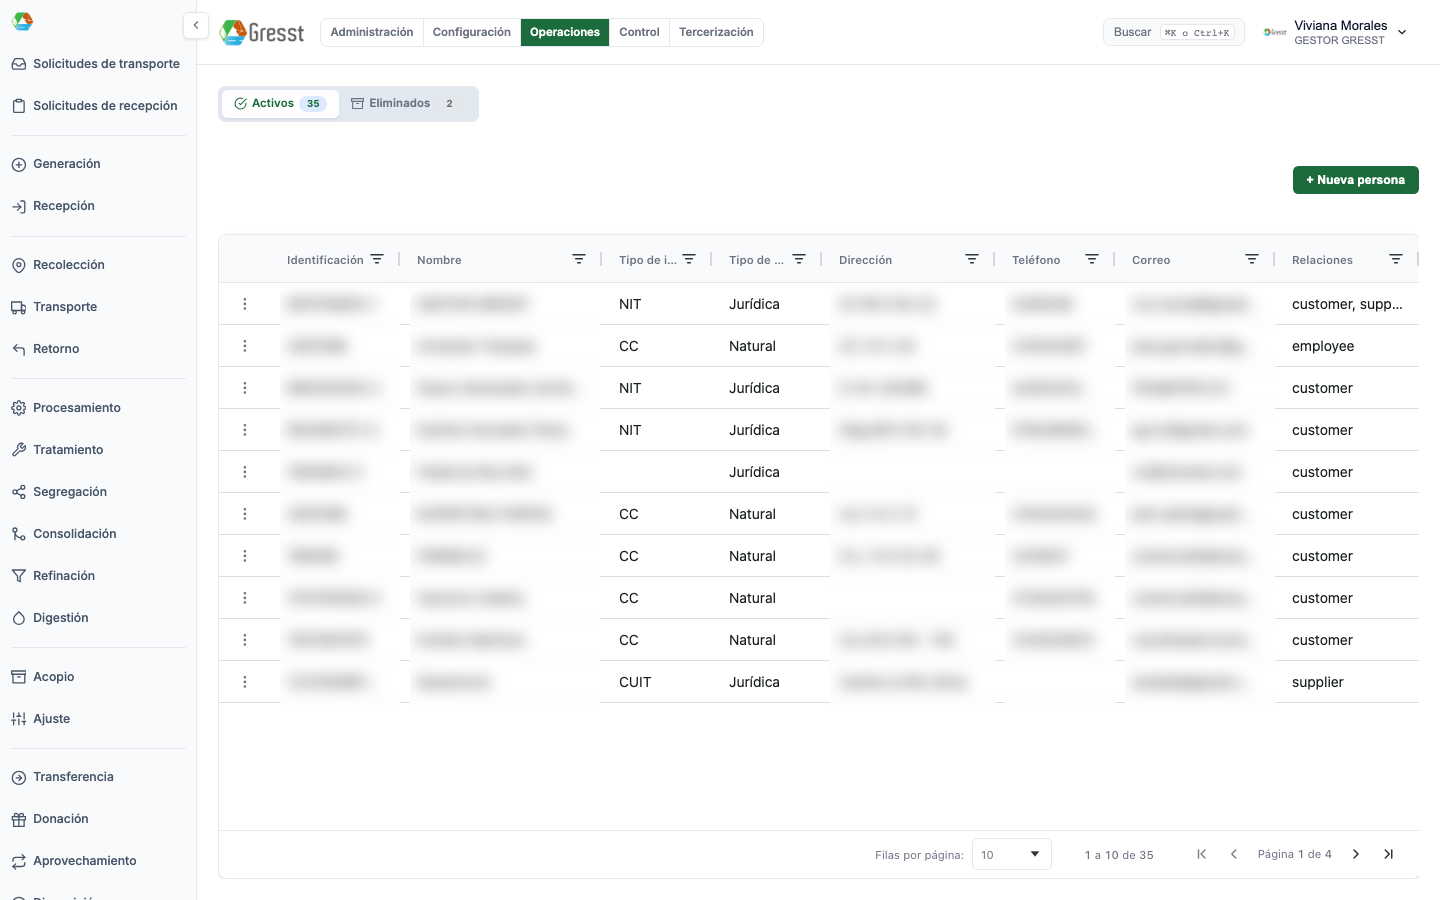
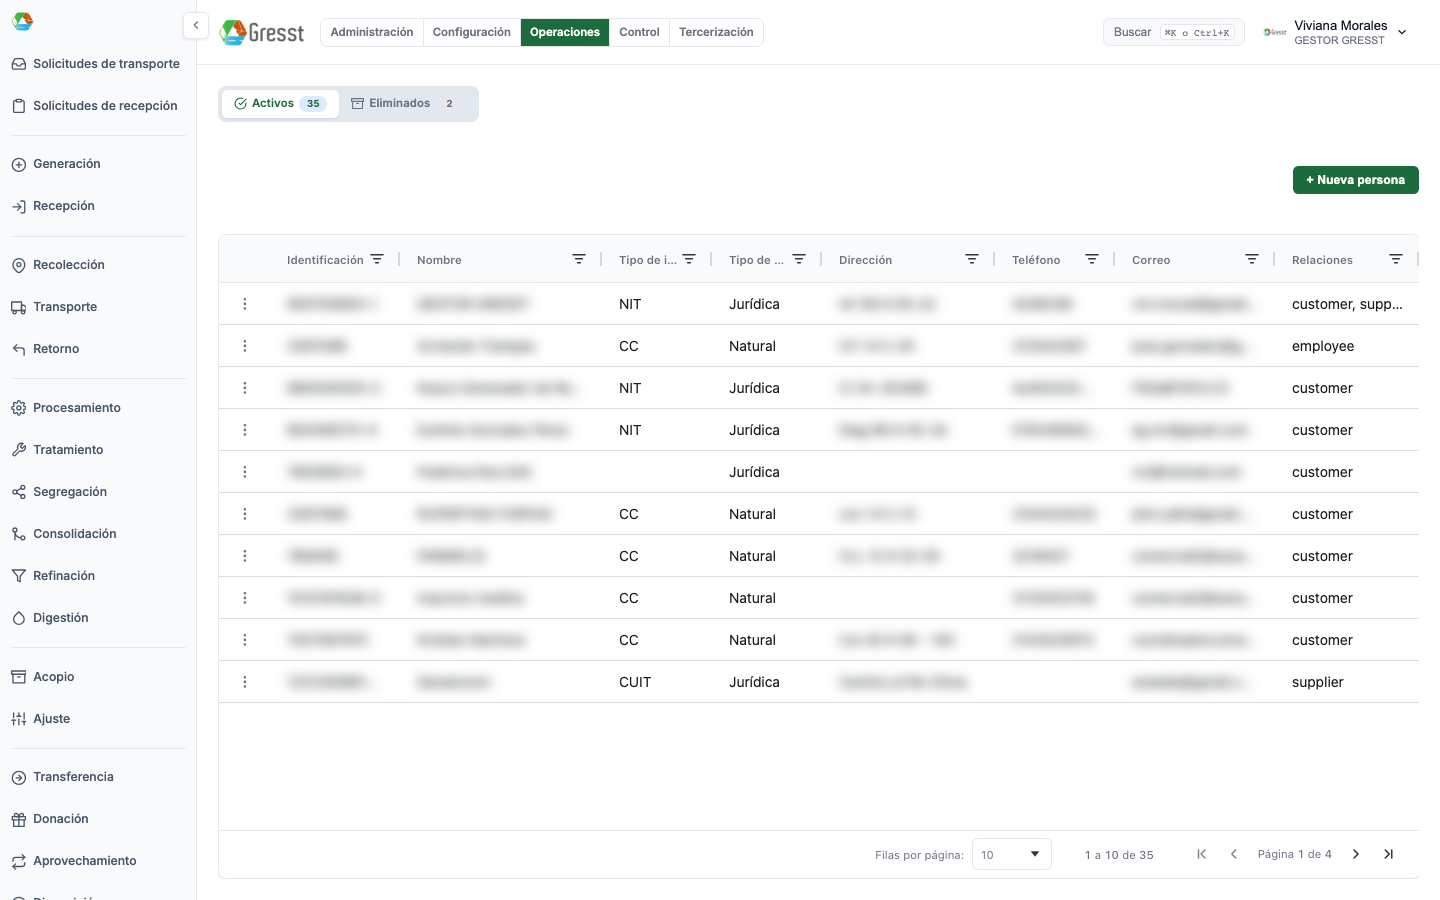
docs(webapp): add screenshots for routes, receptions, requests and roles
Document route expansion and row menu, direct reception panel, new
request form and roles in the WebApp guide, and extend the capture
script with interactive steps.

diff --git a/docs/guia_webapp.md b/docs/guia_webapp.md
@@ -49,9 +49,21 @@ Se trabajan igual en **Transporte** y **Recepción**:
 
 ![Transporte: pestañas Abiertas y Cerradas, filtros y rutas con sus paradas](img/webapp-recoleccion.png)
 
+Al expandir una ruta ves sus paradas, y al expandir cada parada, sus residuos:
+
+![Ruta de transporte expandida con sus paradas y el estado de cada una](img/webapp-transporte-ruta.png)
+
+El menú **⋮** de la ruta ofrece **Editar datos de inicio**, **Agregar residuo** y **Ver mapa**:
+
+![Menú de acciones de una ruta de transporte](img/webapp-transporte-menu-fila.png)
+
 **Recepción (maestro–detalle):** cliente + fecha + punto de recepción; en el detalle, los residuos.
 
 ![Recepción: recepciones abiertas por cliente, fecha y punto de recepción](img/webapp-recepcion.png)
+
+**Agregar residuo** abre el panel de recepción directa: punto de recepción, cliente, transportador, vehículo, fecha, tipo de residuo y cantidades.
+
+![Panel Registrar recepción directa](img/webapp-recepcion-agregar-residuo.png)
 
 Además, si trabajas con cuentas conectadas:
 
@@ -75,6 +87,10 @@ En cada residuo de la lista, el menú **⋮** tiene la acción principal (**Tran
 Cuando registras una solicitud a nombre de un cliente **conectado**, queda esperando su aprobación: ver [Trabajar conectados](guia_conexiones.md#registrar-una-solicitud-a-nombre-de-un-cliente-conectado).
 
 ![Solicitudes de transporte abiertas, con origen, proveedor, intermedio y destino](img/webapp-solicitudes.png)
+
+**+ Nueva solicitud** abre el formulario: quién solicita, quién transporta y quién recibe, la fecha y los ítems de residuo. Puedes **Guardar borrador** o **Confirmar**.
+
+![Formulario de nueva solicitud de transporte](img/webapp-solicitud-nueva.png)
 
 ---
 
@@ -126,6 +142,10 @@ Detalle: [Trabajar conectados](guia_conexiones.md#si-contratas-servicios).
 Solo para el propietario de la cuenta: **Cuenta** (datos y licencias), **Propietario**, **Usuarios**, **Roles** (permisos de cada rol), **Parámetros**, **Módulos** (qué modos de solicitud tiene la cuenta) e **Integraciones** (correo, SIESA).
 
 ![Usuarios de la cuenta, activos e inactivos](img/webapp-usuarios.png)
+
+En **Roles** eliges un rol a la izquierda y ves su descripción, sus **Permisos** y los **Usuarios** que lo tienen. Puedes crear un rol nuevo o duplicar uno existente.
+
+![Roles de la cuenta con el número de permisos y usuarios de cada uno](img/webapp-roles.png)
 
 ### Usuarios inactivos y correos
 
